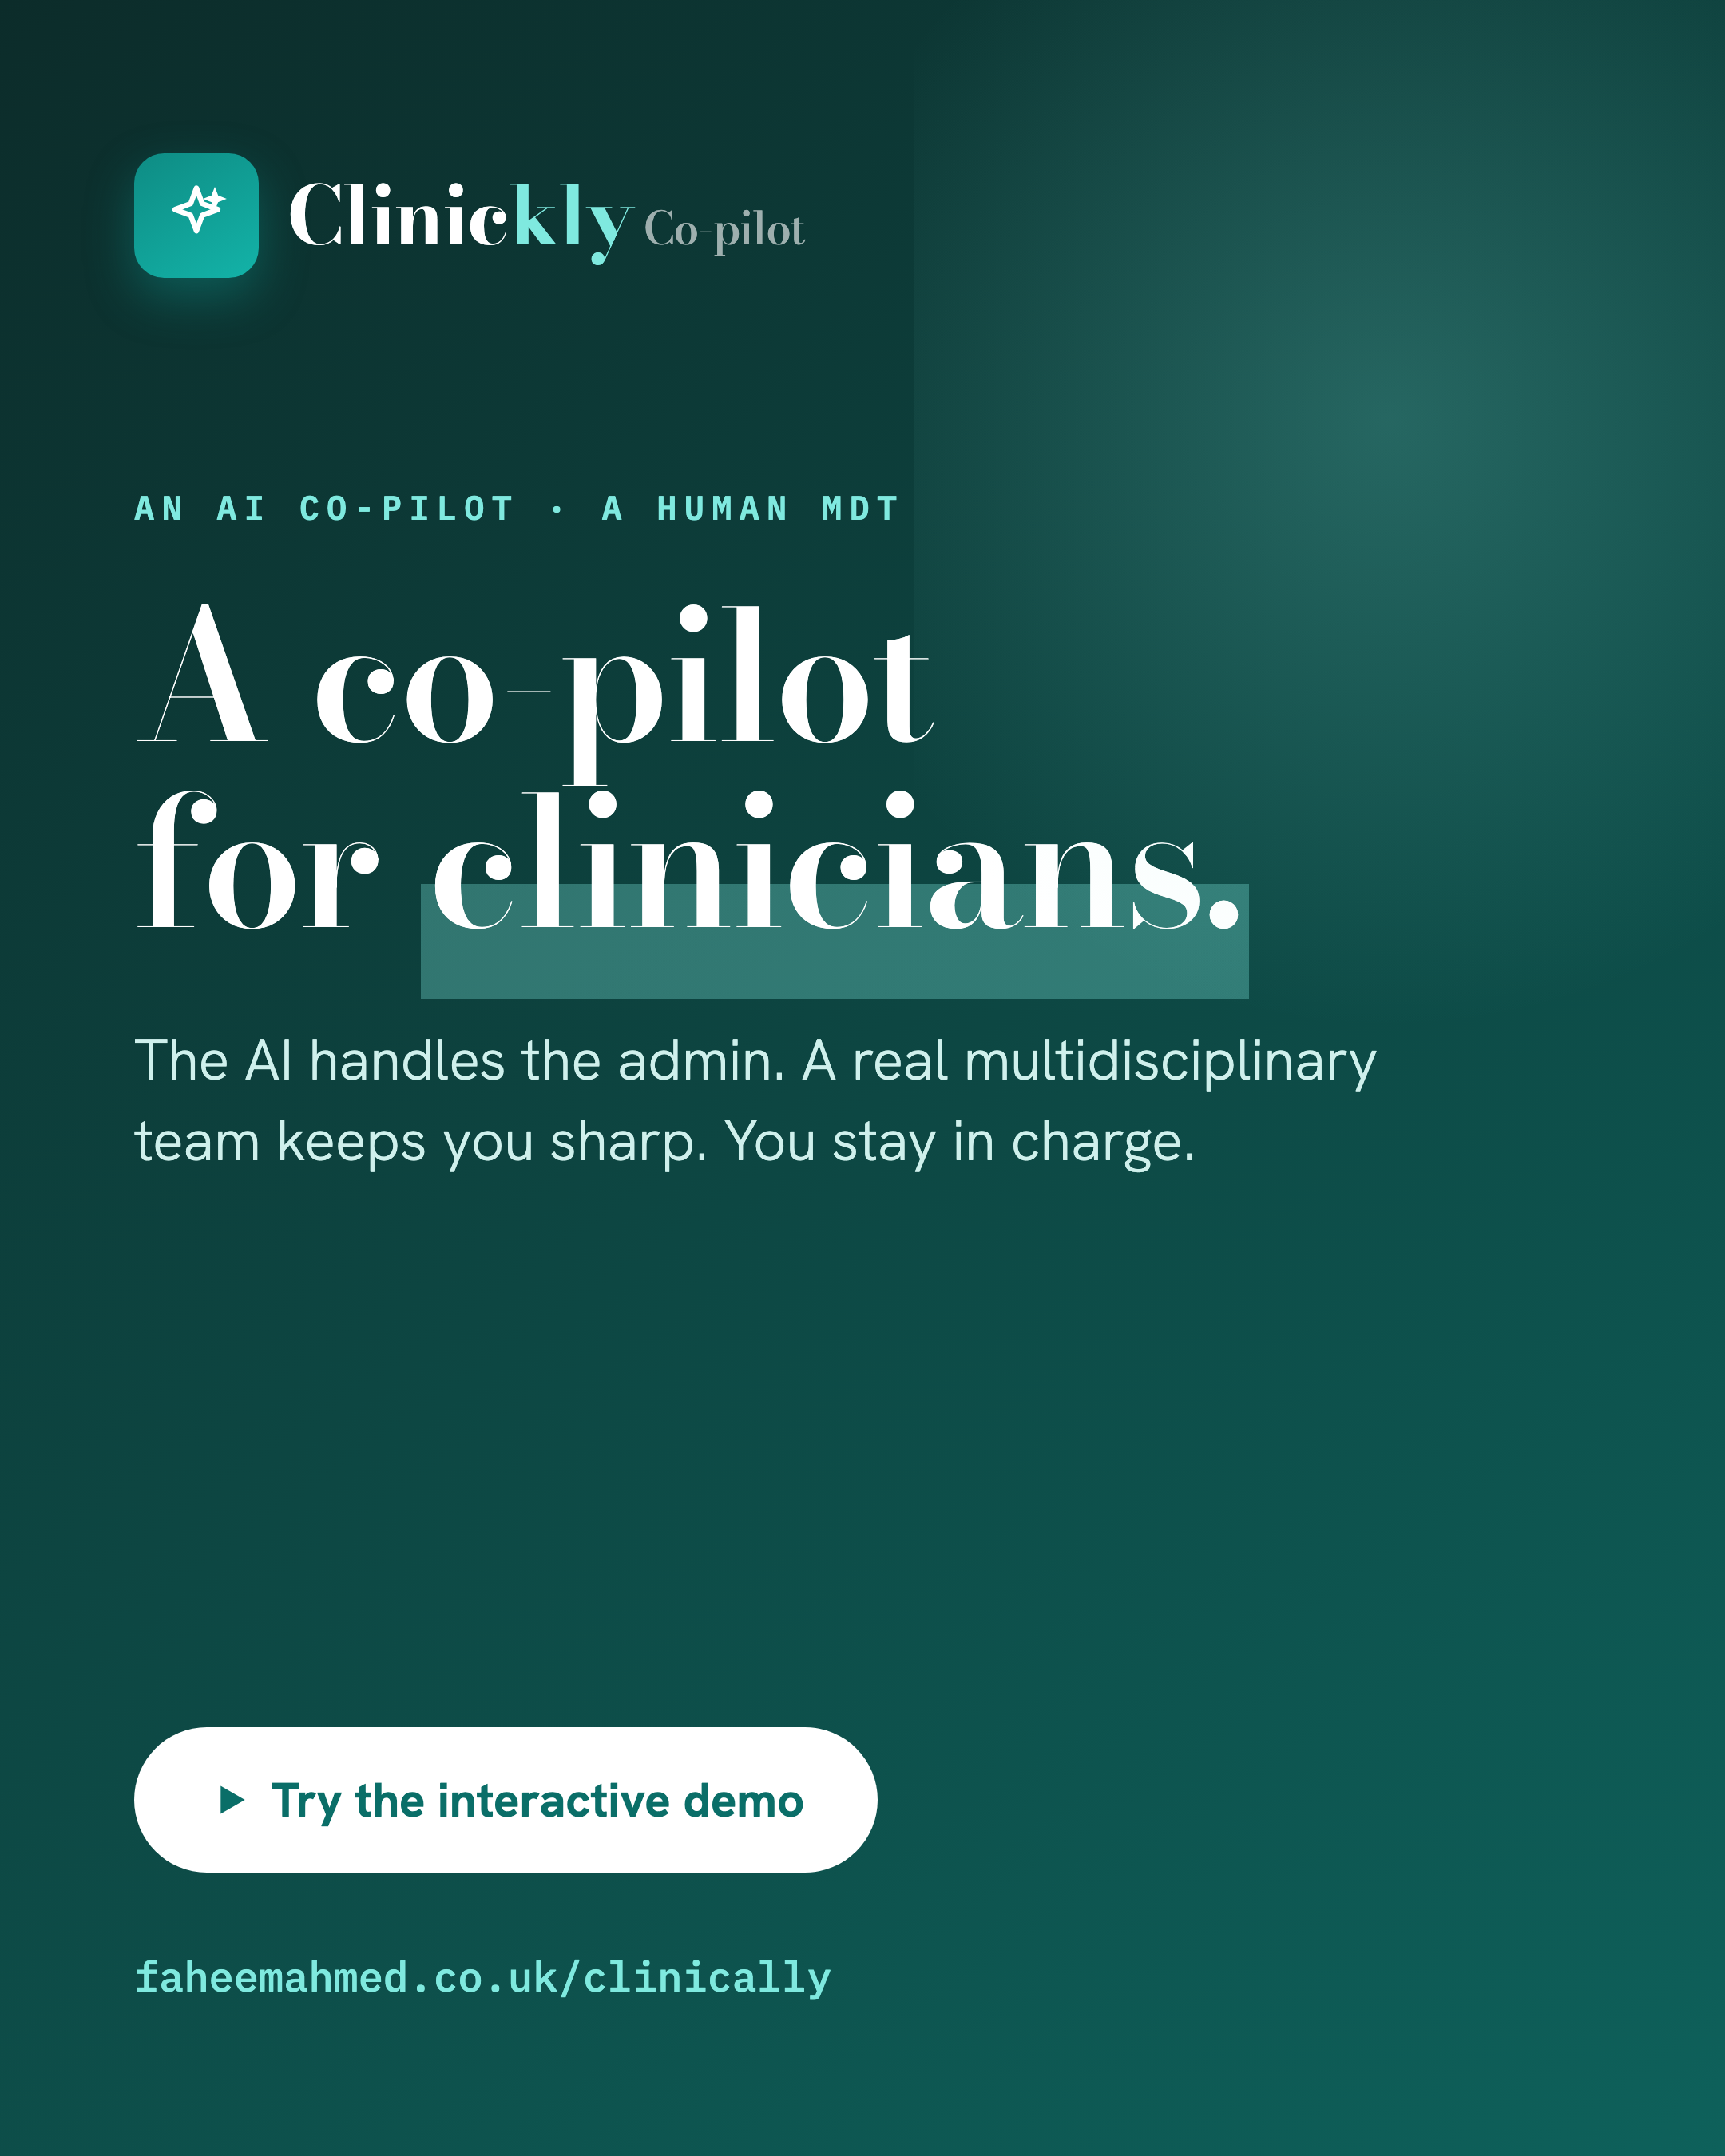
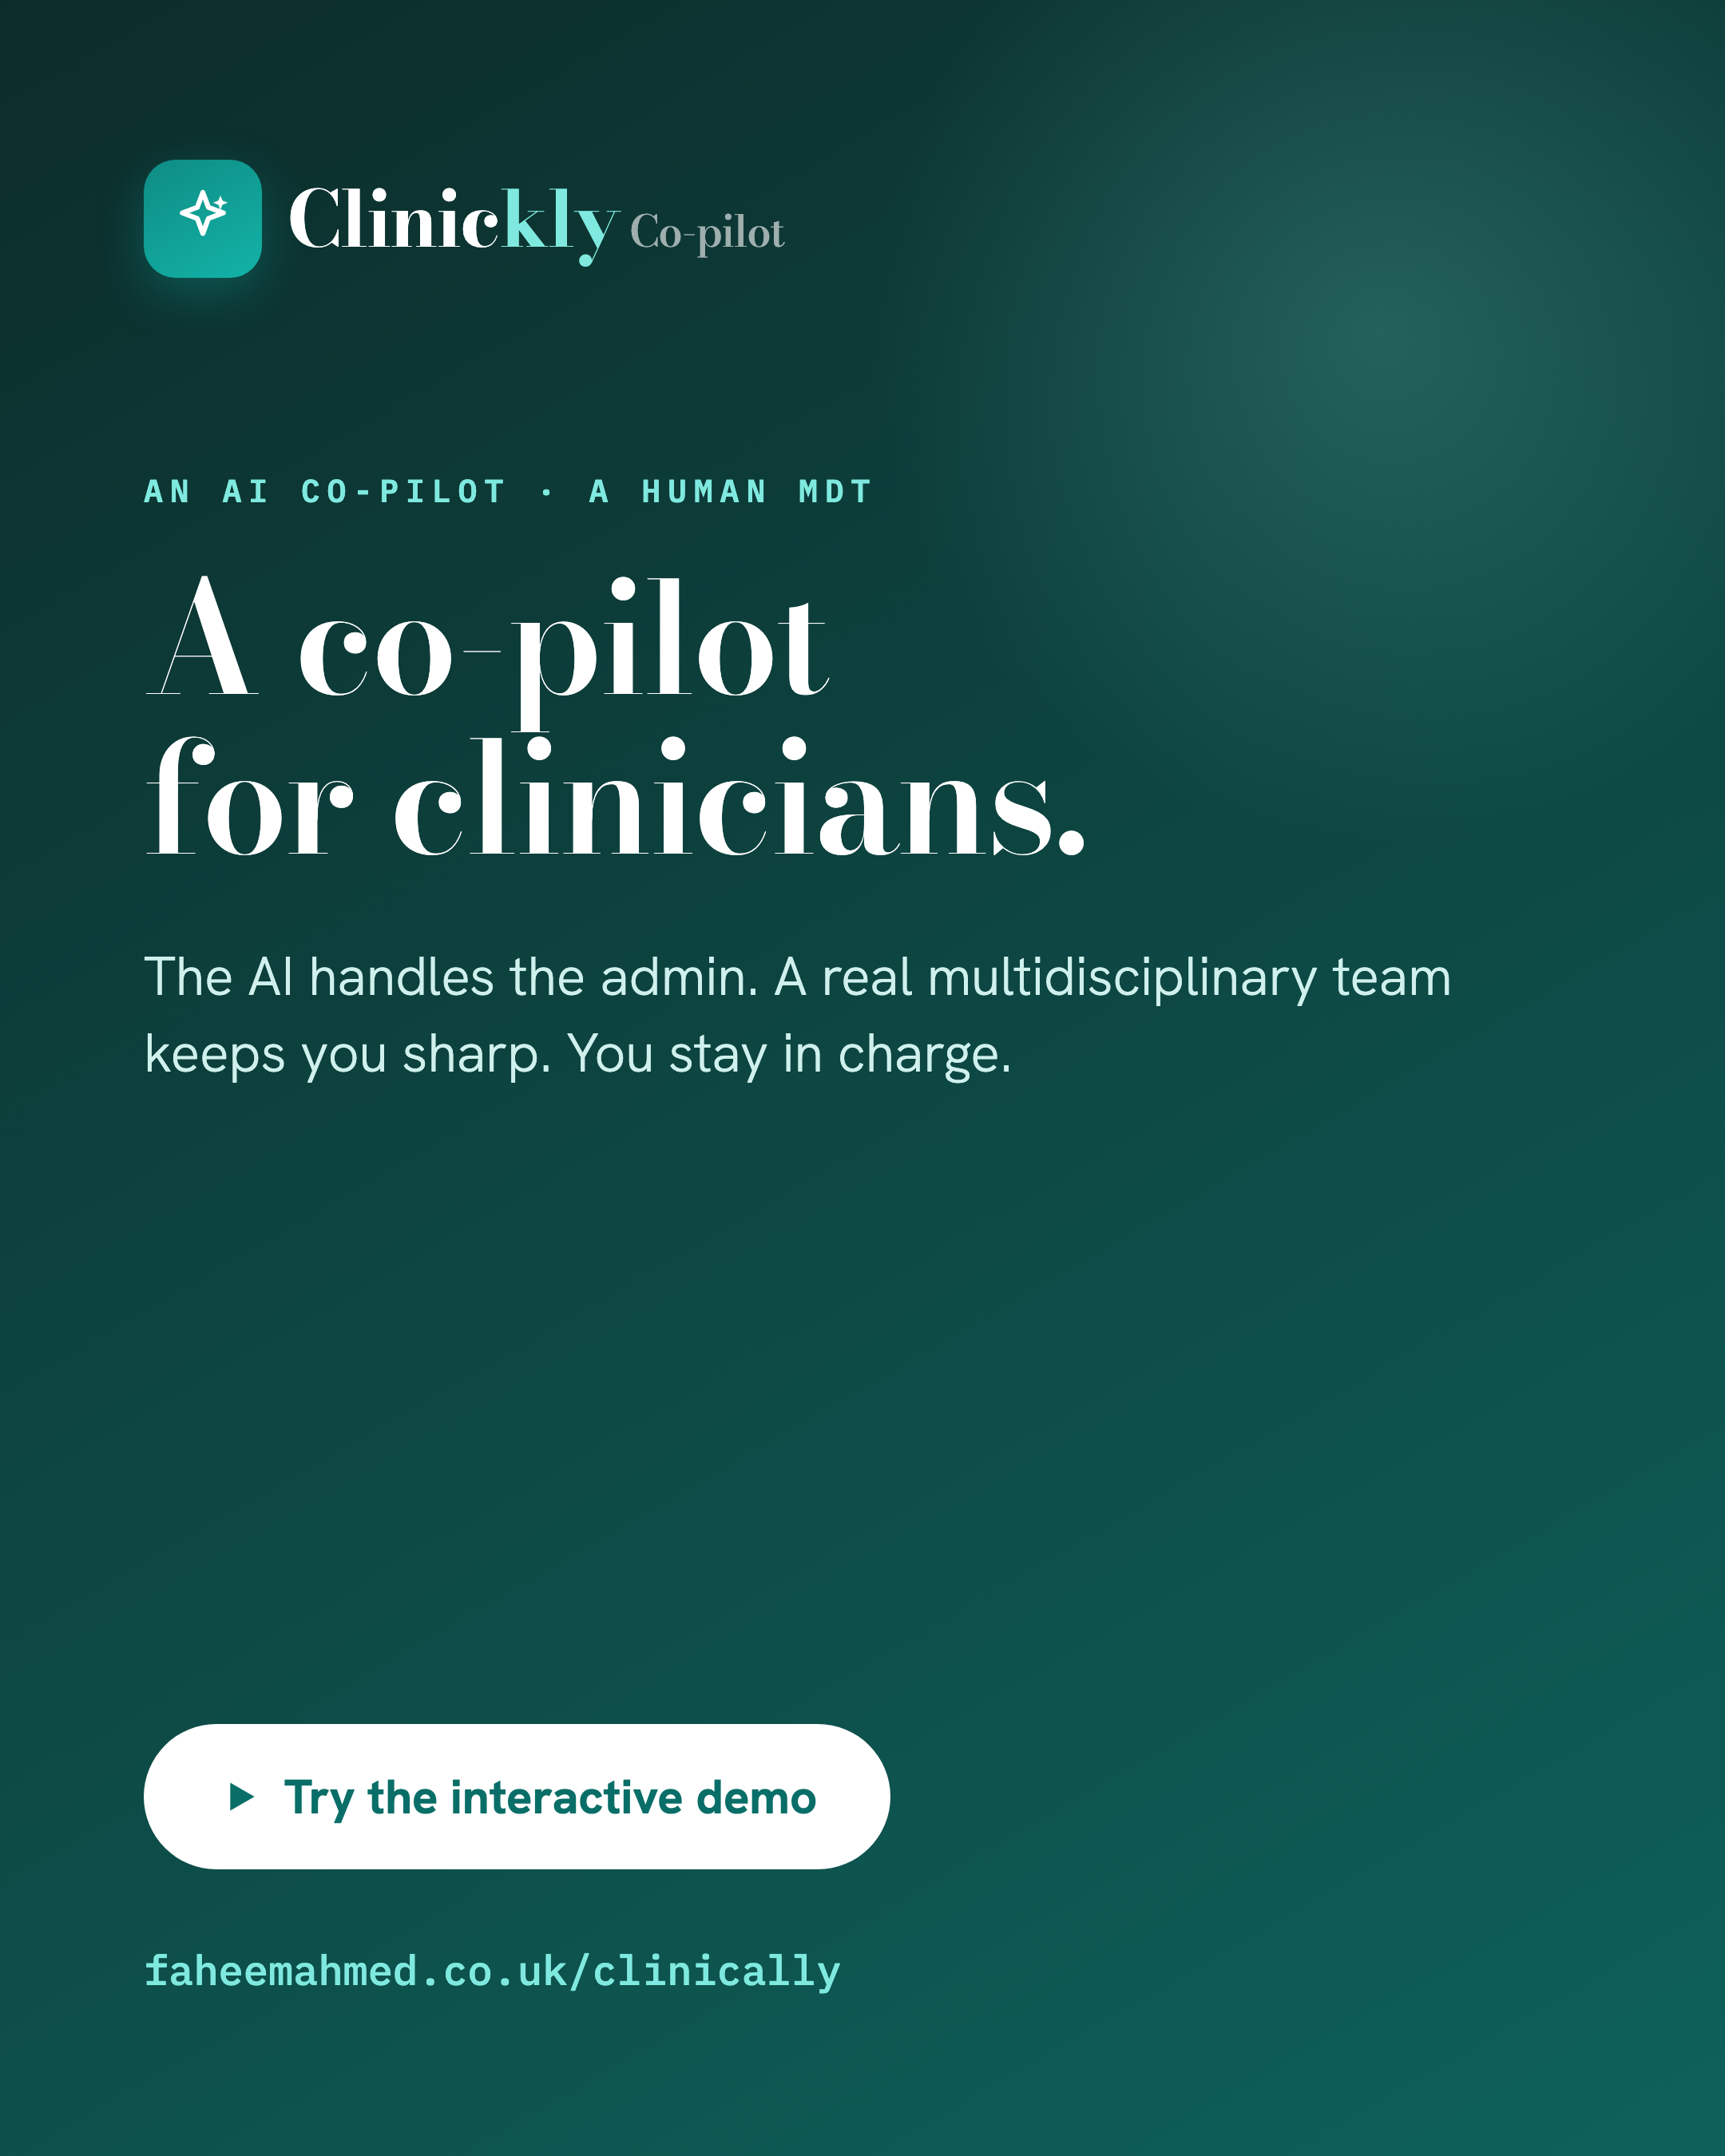
Fix portrait hero card: self-contained styles, safe margins (no broken render/crop)

diff --git a/clinically/social/src/post-hero-portrait.html b/clinically/social/src/post-hero-portrait.html
@@ -1,27 +1,40 @@
 <!DOCTYPE html><html lang="en-GB"><head><meta charset="UTF-8">
 <link rel="preconnect" href="https://fonts.googleapis.com"><link rel="preconnect" href="https://fonts.gstatic.com" crossorigin>
 <link href="https://fonts.googleapis.com/css2?family=Bodoni+Moda:ital,opsz,wght@0,6..96,500;0,6..96,600;0,6..96,700&family=Hanken+Grotesk:wght@300;400;500;600;700&family=IBM+Plex+Mono:wght@500;600&display=swap" rel="stylesheet">
-<link rel="stylesheet" href="_base.css">
 <style>
-  html,body,.card{width:1080px;height:1350px}
-  .card{padding:96px 84px}
-  .mark{width:78px;height:78px}.mark svg{width:46px;height:46px}
-  .brandname{font-size:50px}
-  .kick{font-size:21px;letter-spacing:.22em;margin-top:130px}
-  .display{font-size:112px;margin-top:34px}
-  .sub{font-size:36px;color:#CFF0EC;font-weight:300;margin-top:40px;line-height:1.4;max-width:840px}
-  .pill{font-size:30px;padding:26px 46px;margin-top:auto;align-self:flex-start}
-  .pill svg{width:28px;height:28px}
-  .foot{font-size:26px;margin-top:48px}
+  /* fully self-contained — no external CSS dependency */
+  *{margin:0;padding:0;box-sizing:border-box}
+  html,body{width:1080px;height:1350px}
+  body{font-family:"Hanken Grotesk",system-ui,sans-serif}
+  .card{width:1080px;height:1350px;padding:100px 90px;display:flex;flex-direction:column;
+    background:linear-gradient(150deg,#0C2C2A 0%,#0E615B 100%);color:#fff;position:relative;overflow:hidden}
+  .card::after{content:"";position:absolute;right:-10%;top:-12%;width:60%;height:55%;
+    background:radial-gradient(circle at 50% 50%,rgba(127,233,223,.20),transparent 65%)}
+  .lock{display:flex;align-items:center;gap:16px;position:relative;z-index:2}
+  .mark{width:74px;height:74px;border-radius:20px;flex:0 0 auto;display:grid;place-items:center;
+    background:linear-gradient(150deg,#0E8C84,#13B3A8);box-shadow:0 10px 28px rgba(14,140,132,.4)}
+  .mark svg{width:44px;height:44px}
+  .nm{font-family:"Bodoni Moda",Georgia,serif;font-weight:700;font-size:48px;letter-spacing:-.01em;color:#fff}
+  .nm .k{color:#7FE9DF}
+  .nm .cp{font-size:.56em;font-weight:500;opacity:.6}
+  .kick{font-family:"IBM Plex Mono",monospace;font-size:20px;font-weight:600;letter-spacing:.22em;
+    text-transform:uppercase;color:#7FE9DF;margin-top:120px;position:relative;z-index:2}
+  .title{font-family:"Bodoni Moda",Georgia,serif;font-weight:600;font-size:96px;line-height:1.04;
+    letter-spacing:-.015em;color:#fff;margin-top:30px;position:relative;z-index:2}
+  .sub{font-size:34px;font-weight:300;line-height:1.4;color:#CFF0EC;margin-top:38px;max-width:840px;position:relative;z-index:2}
+  .pill{display:inline-flex;align-items:center;gap:14px;background:#fff;color:#0A6E68;font-weight:700;
+    font-size:30px;padding:26px 46px;border-radius:100px;margin-top:auto;align-self:flex-start;position:relative;z-index:2}
+  .pill svg{width:28px;height:28px;fill:#0A6E68}
+  .url{font-family:"IBM Plex Mono",monospace;font-size:26px;color:#7FE9DF;margin-top:46px;position:relative;z-index:2}
 </style></head>
-<body><div class="card dark">
+<body><div class="card">
   <div class="lock">
-    <span class="mark"><svg class="spark-white" viewBox="0 0 24 24"><path d="M12 3l1.9 5.1L19 10l-5.1 1.9L12 17l-1.9-5.1L5 10l5.1-1.9z" fill="none" stroke-width="1.7" stroke-linejoin="round"/><path d="M18 4l.7 1.8L20.5 6.5l-1.8.7L18 9l-.7-1.8L15.5 6.5l1.8-.7z" fill="#fff"/></svg></span>
-    <span class="brandname">Clinic<span class="a">kly</span><span class="cp"> Co-pilot</span></span>
+    <span class="mark"><svg viewBox="0 0 24 24"><path d="M12 3l1.9 5.1L19 10l-5.1 1.9L12 17l-1.9-5.1L5 10l5.1-1.9z" fill="none" stroke="#fff" stroke-width="1.7" stroke-linejoin="round"/><path d="M18 4l.7 1.8L20.5 6.5l-1.8.7L18 9l-.7-1.8L15.5 6.5l1.8-.7z" fill="#fff"/></svg></span>
+    <span class="nm">Clinic<span class="k">kly</span><span class="cp"> Co-pilot</span></span>
   </div>
   <div class="kick">An AI co-pilot · A human MDT</div>
-  <div class="display">A co-pilot<br>for <span class="hl">clinicians.</span></div>
+  <div class="title">A co-pilot<br>for clinicians.</div>
   <div class="sub">The AI handles the admin. A real multidisciplinary team keeps you sharp. You stay in charge.</div>
-  <span class="pill"><svg viewBox="0 0 24 24" fill="#0A6E68"><path d="M7 4.5v15l13-7.5z"/></svg> Try the interactive demo</span>
-  <div class="foot">faheemahmed.co.uk/clinically</div>
+  <span class="pill"><svg viewBox="0 0 24 24"><path d="M7 4.5v15l13-7.5z"/></svg> Try the interactive demo</span>
+  <div class="url">faheemahmed.co.uk/clinically</div>
 </div></body></html>